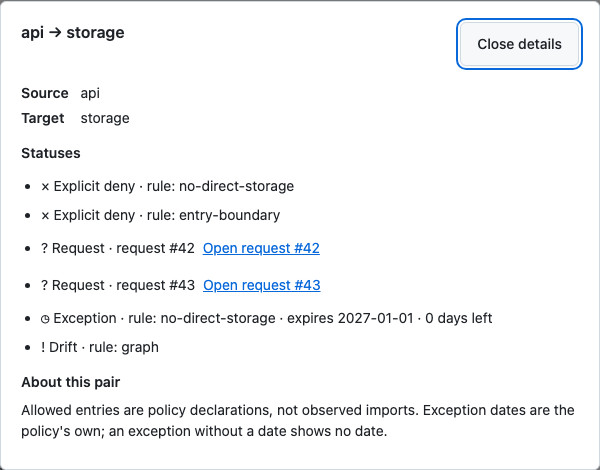
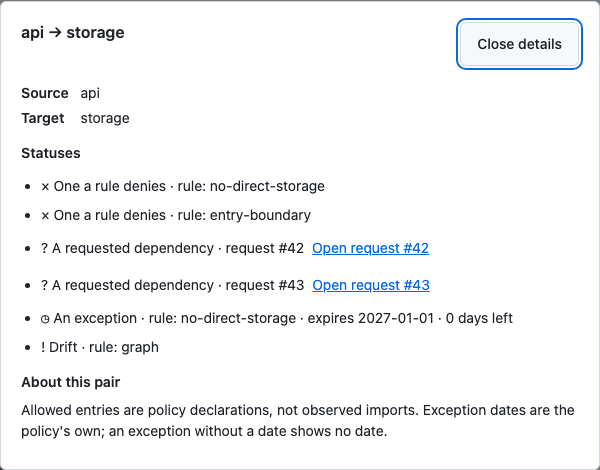
fix(web): matrix uses the legend words everywhere; a blank cell is not a claim the policy is silent
Dialog statuses and cell labels use the same five words as the legend. A blank cell says the matrix shows no status, since a deny rule may apply to a pair the App did not touch.

diff --git a/web/src/components/map/Dsm.svelte b/web/src/components/map/Dsm.svelte
@@ -2,7 +2,7 @@
   import { tick } from 'svelte';
   import { repoPage } from '../../lib/route';
   import { mapLayers, type MapModel } from './model';
-  import { breakable, cellView, compactFrom, filtersFrom, isNavKey, nextCell, pairIndex, pairKey, statusLabel, symbols, visibleModules, type Cell } from './dsm';
+  import { breakable, cellView, compactFrom, filtersFrom, isNavKey, kindWords, nextCell, pairIndex, pairKey, statusLabel, symbols, visibleModules, type Cell } from './dsm';
 
   let { model, repo }: { model: MapModel; repo: string } = $props();
   const id = $props.id();
@@ -103,12 +103,12 @@
   {:else}
   <p class="orientation"><strong>Policy and review status</strong> · row depends on column.</p>
   <ul class="legend" aria-label="Matrix legend">
-    <li>✓ An allowed dependency</li><li>× One a rule denies</li><li>? A requested dependency</li><li>! Drift</li><li>◷ An exception</li>
+    <li>{symbols.allowed} {kindWords.allowed}</li><li>{symbols.deny} {kindWords.deny}</li><li>{symbols.requested} {kindWords.requested}</li><li>{symbols.drift} {kindWords.drift}</li><li>{symbols.exception} {kindWords.exception}</li>
   </ul>
-  <p class="muted small" id={id + '-scope'}>Blank: the policy says nothing about this pair. It does not mean the dependency is allowed.</p>
+  <p class="muted small" id={id + '-scope'}>Blank: the matrix shows no status for this pair. It does not mean the dependency is allowed.</p>
   <details class="about small">
     <summary>About this view</summary>
-    <p>Deny status is only known for touched, requested or drift pairs. Full deny evaluation is not available.</p>
+    <p>Deny status is only shown for touched, requested or drift pairs. A blank pair may still be denied by a rule.</p>
   </details>
 
   {#if model.modules.length >= filtersFrom}
@@ -207,7 +207,7 @@
             <a href={repoPage(repo, `/requests/${line.request}`)}>Open request #{line.request}</a>
           {/if}
         </li>
-      {:else}<li>The policy says nothing about this pair.</li>{/each}
+      {:else}<li>The matrix shows no status for this pair. A deny rule may still apply; see About this view.</li>{/each}
     </ul>
     <h4>About this pair</h4>
     <p>Allowed entries are policy declarations, not observed imports. Exception dates are the policy's own; an exception

diff --git a/web/src/components/map/dsm.ts b/web/src/components/map/dsm.ts
@@ -7,12 +7,13 @@ export const symbols: Record<LineKind, string> = {
   drift: '!',
   exception: '◷',
 };
-const statuses: Record<LineKind, string> = {
-  allowed: 'Explicit allow',
-  deny: 'Explicit deny',
-  requested: 'Request',
+// The legend's words for the five kinds, shared by the legend, the cell labels and the details.
+export const kindWords: Record<LineKind, string> = {
+  allowed: 'An allowed dependency',
+  requested: 'A requested dependency',
+  deny: 'One a rule denies',
+  exception: 'An exception',
   drift: 'Drift',
-  exception: 'Exception',
 };
 
 export const pairKey = (from: string, to: string): string => JSON.stringify([from, to]);
@@ -31,7 +32,7 @@ export function pairIndex(lines: MapLine[]): Map<string, MapLine[]> {
 
 export function statusLabel(line: MapLine): string {
   return [
-    statuses[line.kind],
+    kindWords[line.kind],
     line.rule && `rule: ${line.rule}`,
     line.request !== undefined && `request #${line.request}`,
     line.expires && `expires ${line.expires}`,

diff --git a/web/src/components/map/dsm.test.ts b/web/src/components/map/dsm.test.ts
@@ -120,6 +120,15 @@ describe('DSM cell navigation', () => {
   });
 });
 
+describe('DSM kind words', () => {
+  it('labels every status with the legend words', () => {
+    expect(statusLabel({ from: 'a', to: 'b', kind: 'allowed' })).toBe('An allowed dependency');
+    expect(statusLabel({ from: 'a', to: 'b', kind: 'requested', request: 7 })).toBe('A requested dependency · request #7');
+    expect(statusLabel({ from: 'a', to: 'b', kind: 'deny', rule: 'r' })).toBe('One a rule denies · rule: r');
+    expect(statusLabel({ from: 'a', to: 'b', kind: 'exception' })).toBe('An exception');
+  });
+});
+
 describe('DSM names', () => {
   it.each([
     ['multiplexer_backends', ['multiplexer_', 'backends']],

diff --git a/web/e2e/dsm.spec.ts b/web/e2e/dsm.spec.ts
@@ -91,7 +91,7 @@ test('DSM preserves all statuses, keyboard navigation and modal focus return', a
   const blank = page.getByRole('button', { name: 'api to web: no rule' });
   await expect(blank).toBeFocused();
   await page.keyboard.press('Enter');
-  await expect(page.getByRole('dialog')).toContainText('The policy says nothing about this pair.');
+  await expect(page.getByRole('dialog')).toContainText('The matrix shows no status for this pair.');
   await page.getByRole('button', { name: 'Close details' }).click();
   await expect(blank).toBeFocused();
 });

diff --git a/docs/user-guide.md b/docs/user-guide.md
@@ -67,7 +67,7 @@ a laptop page without horizontal scrolling. Names break only after `_` and `-`; 
 A cell shows its strongest status (drift, deny, request, allow) and, when it has several statuses, how many. A later
 exception is grey and does not change the symbol. An exception with no date is never read as a pass.
 
-A blank means **the policy says nothing about this pair**. It does not mean the dependency is allowed. Deny status is
+A blank means **the matrix shows no status for this pair**. It does not mean the dependency is allowed, and a deny rule may still apply. Deny status is
 only known for touched, requested or drift pairs; **About this view** explains this. Every status remains in the cell's
 accessible name and in its details, including multiple rules, requests and exception dates. Select a cell for details.
 Tab enters the table; arrow keys move between cells (the shaded diagonal is skipped), Enter opens details, and Escape
